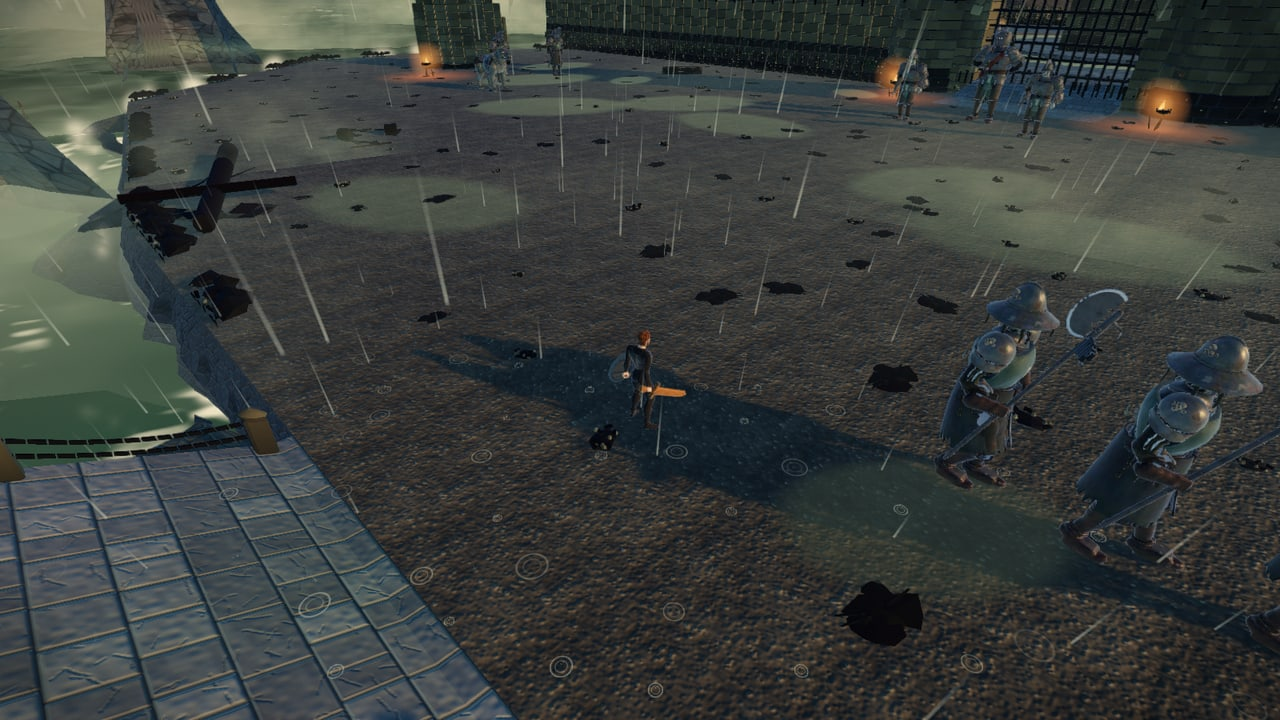
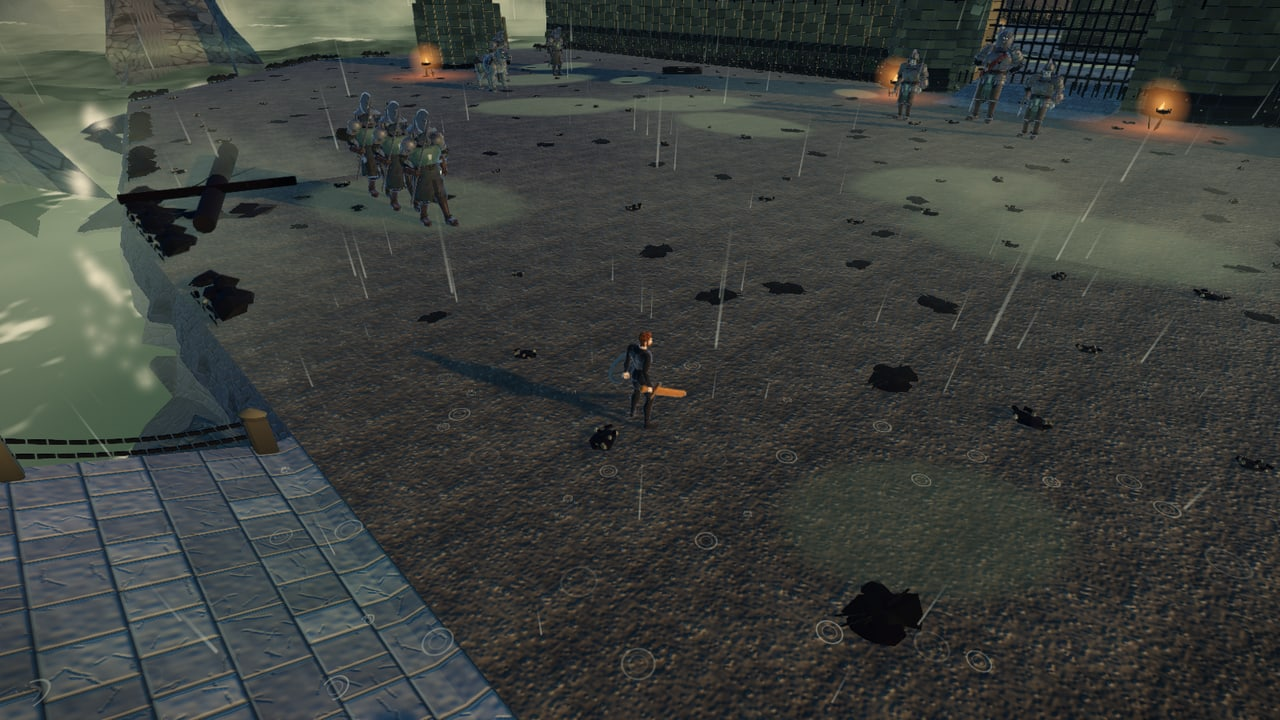
docs(screenshots): re-shoot the Bastion rain after the lattice fix
The splash picture changed with the lattice, so the two after stills are
retaken, and a time-blended top-down view of the splashes alone and a high
camera frame are added to show the floor rains evenly.

diff --git a/docs/screenshots/laverock-walk-bastion-rain-v045/README.md b/docs/screenshots/laverock-walk-bastion-rain-v045/README.md
@@ -42,6 +42,17 @@ rings sit on a ground-anchored lattice and stay where they landed.
 | --- | --- |
 | ![before](before-splashes-camera-nudge.jpg) | ![after](after-splashes-camera-nudge.jpg) |
 
+A ground-anchored lattice repeats on the floor, so it must leave nothing dry: every cell
+holds a splash and a splash lands anywhere in its cell, edge to edge. Below, the splashes
+alone, straight down, with 48 frames over about eight seconds blended to their brightest:
+an even field with no dry stripe and no grid, fading only with distance from the camera.
+
+![after](after-splash-coverage.jpg)
+
+From a high chase camera, in one frame:
+
+![after](after-bastion-rain-high-camera.jpg)
+
 The storm itself is unchanged (same three draws, same streak, splash and sheet counts):
 
 | Before | After |
